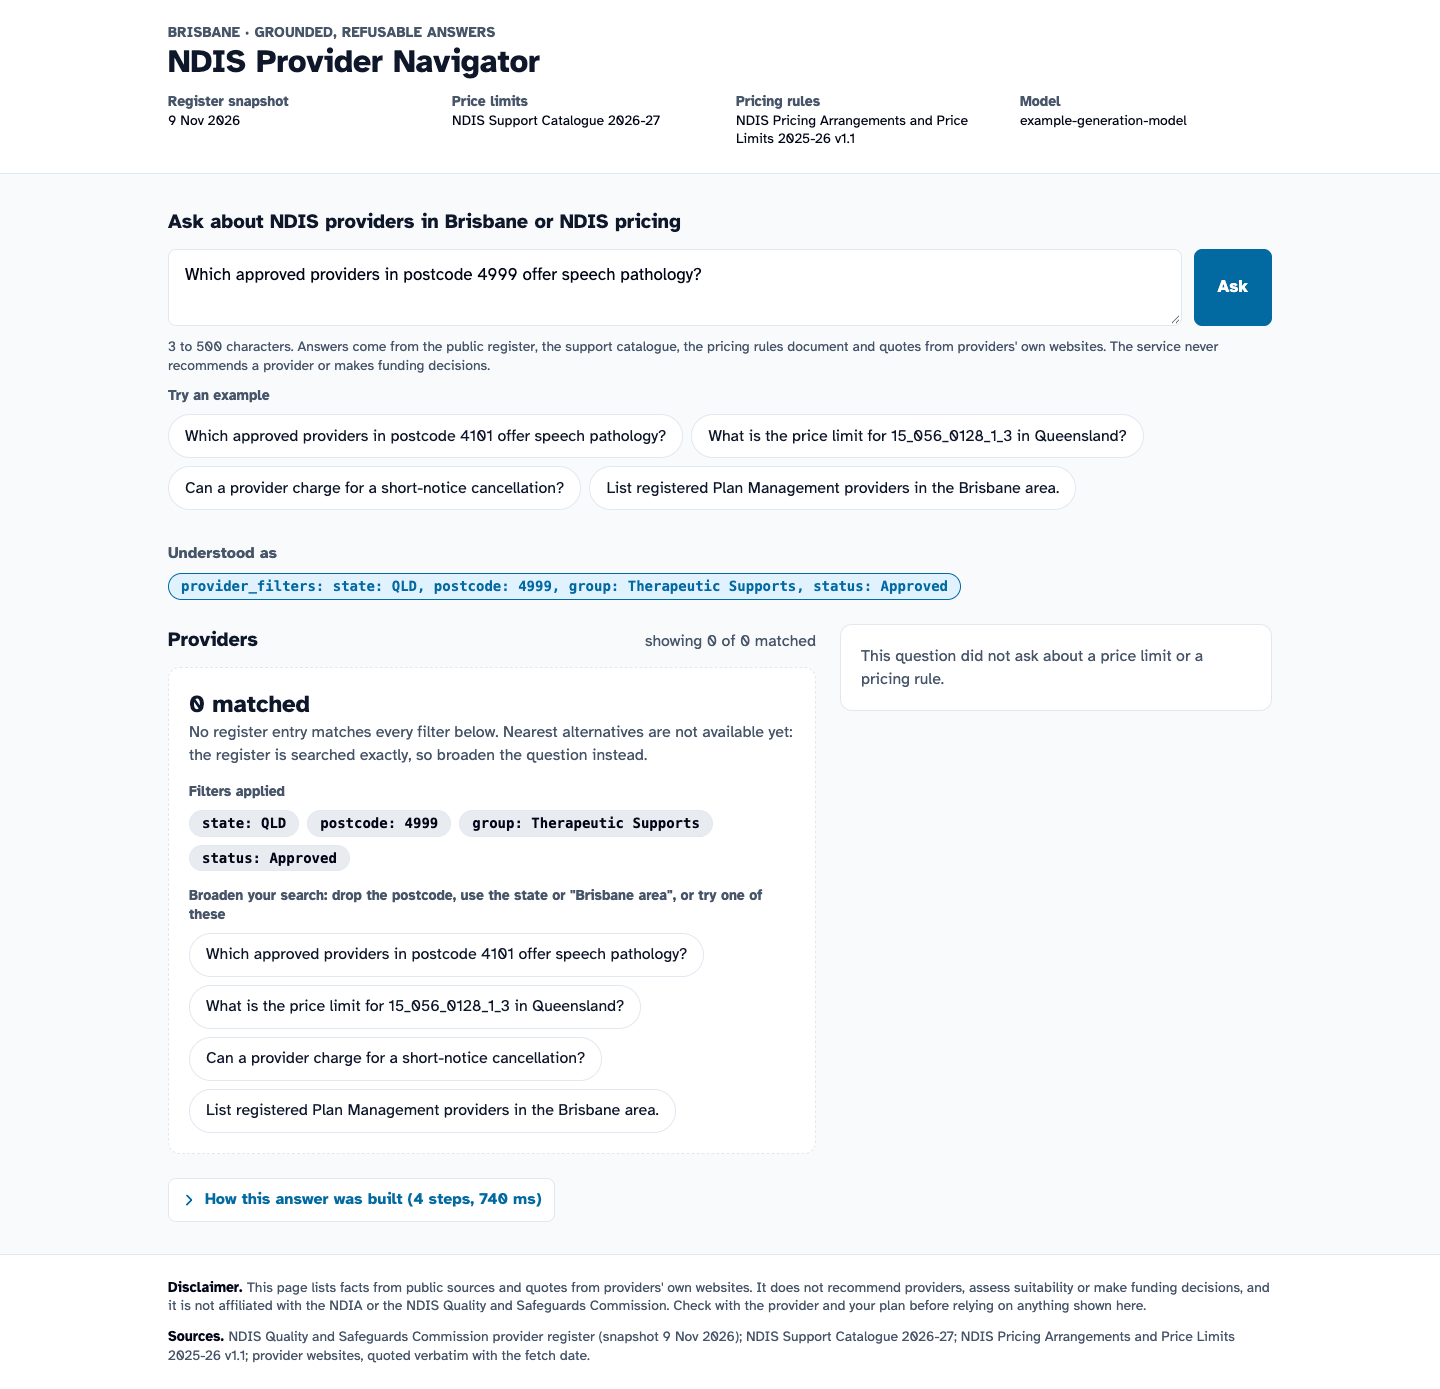
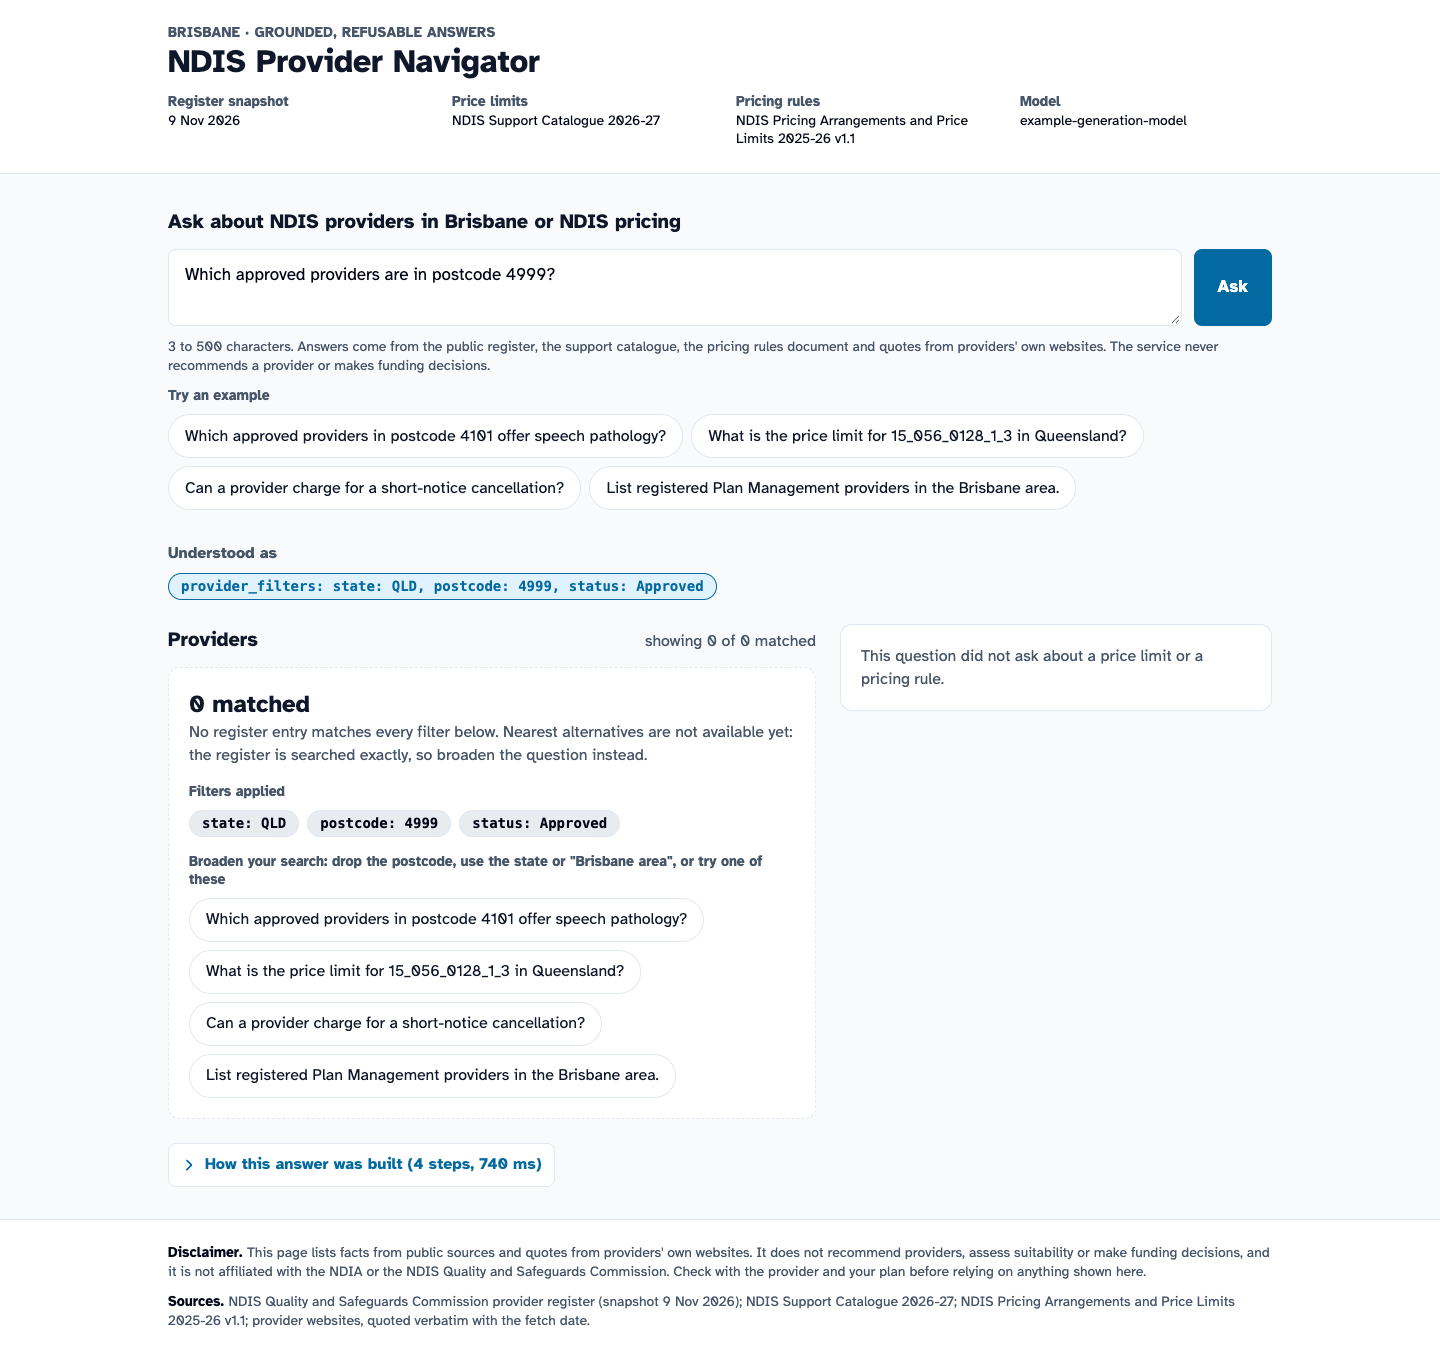
refactor: address review nits on the web page and steps summary
Label the step-table total as priced steps and note unpriced model calls;
make the empty fixture's question match its filters and refresh its
screenshot; drop the dead summary CSS; remove the unreachable no-filters
branch in _summarise_filters; drop the duplicate aria-live wrapper.

Amp-Thread-ID: https://ampcode.com/threads/T-01a1c1ed-3268-72f4-9ec4-8f378ba0eb50

diff --git a/web/src/components/HowBuilt.tsx b/web/src/components/HowBuilt.tsx
@@ -79,7 +79,7 @@ export function HowBuilt({ steps, meta }: HowBuiltProps) {
               <tfoot>
                 <tr className="border-t-2 border-border text-xs text-muted-foreground">
                   <th scope="row" className="py-2 pr-3 text-left font-bold">
-                    Total
+                    Total (priced steps)
                   </th>
                   <td />
                   <td className="py-2 pr-3 text-right font-mono">{formatMs(totalMs)}</td>
@@ -89,6 +89,11 @@ export function HowBuilt({ steps, meta }: HowBuiltProps) {
               </tfoot>
             </table>
           </div>
+          {steps.some((step) => step.cost_usd === null) && (
+            <p className="text-xs text-muted-foreground">
+              Steps without a cost are model calls whose usage is not yet reported.
+            </p>
+          )}
           {traceUrl ? (
             <p className="text-sm">
               <a

diff --git a/web/src/api/fixtures/empty.ts b/web/src/api/fixtures/empty.ts
@@ -2,7 +2,7 @@ import type { AskOut } from '../client'
 
 /** Valid filters that match nobody on the register. */
 export const EMPTY: AskOut = {
-  question: 'Registered providers for Therapeutic Supports in postcode 4999',
+  question: 'Which approved providers are in postcode 4999?',
   refused: false,
   reason: null,
   explanation: null,
@@ -10,7 +10,7 @@ export const EMPTY: AskOut = {
     provider_filters: {
       state: 'QLD',
       postcode: '4999',
-      group: 'Therapeutic Supports',
+      group: null,
       status: 'Approved',
       brisbane_area: null,
     },
@@ -37,7 +37,7 @@ export const EMPTY: AskOut = {
     },
     {
       kind: 'provider_filter',
-      input_summary: 'state=QLD postcode=4999 group=Therapeutic Supports status=Approved',
+      input_summary: 'state=QLD postcode=4999 status=Approved',
       output_summary: '0 of 0 matching providers',
       ms: 38,
       input_tokens: null,

diff --git a/web/src/index.css b/web/src/index.css
@@ -68,18 +68,10 @@
   }
 
   /* One visible focus style for every operable control (MASTER.md: 3-4px rings). */
-  :where(a, button, input, textarea, select, summary, [tabindex]):focus-visible {
+  :where(a, button, input, textarea, select, [tabindex]):focus-visible {
     outline: var(--focus-ring-width) solid var(--color-accent);
     outline-offset: var(--focus-ring-offset);
     border-radius: var(--radius-sm);
-  }
-
-  /* Native disclosure marker is replaced by our own chevron in <Disclosure>. */
-  summary::-webkit-details-marker {
-    display: none;
-  }
-  summary {
-    list-style: none;
   }
 
   @media (prefers-reduced-motion: reduce) {

diff --git a/web/src/App.tsx b/web/src/App.tsx
@@ -133,7 +133,7 @@ function Result({ answer, meta, onPickExample }: ResultProps) {
   const hasRightColumn =
     answer.price !== null || answer.price_error !== null || answer.rule !== null
   return (
-    <div className="flex flex-col gap-6" aria-live="polite">
+    <div className="flex flex-col gap-6">
       <IntentRow intent={answer.intent} />
       {answer.refused ? (
         <RefusalBanner answer={answer} />

diff --git a/src/ndis/application/ask.py b/src/ndis/application/ask.py
@@ -198,10 +198,7 @@ def token_cost(prices: TokenPrices, input_tokens: int, output_tokens: int) -> fl
     return (input_tokens * input_price + output_tokens * output_price) / 1_000_000
 
 
-def _summarise_filters(intent: Intent) -> str:
-    filters = intent.provider_filters
-    if filters is None:
-        return "no provider filters"
+def _summarise_filters(filters: ProviderFilters) -> str:
     parts = [
         f"{name}={value}"
         for name, value in (
@@ -300,7 +297,7 @@ class Ask:
             log.record(
                 "provider_filter",
                 started,
-                _summarise_filters(intent),
+                _summarise_filters(intent.provider_filters),
                 f"{len(providers)} of {provider_total} matching providers",
             )
         price: PriceLimitResult | None = None
